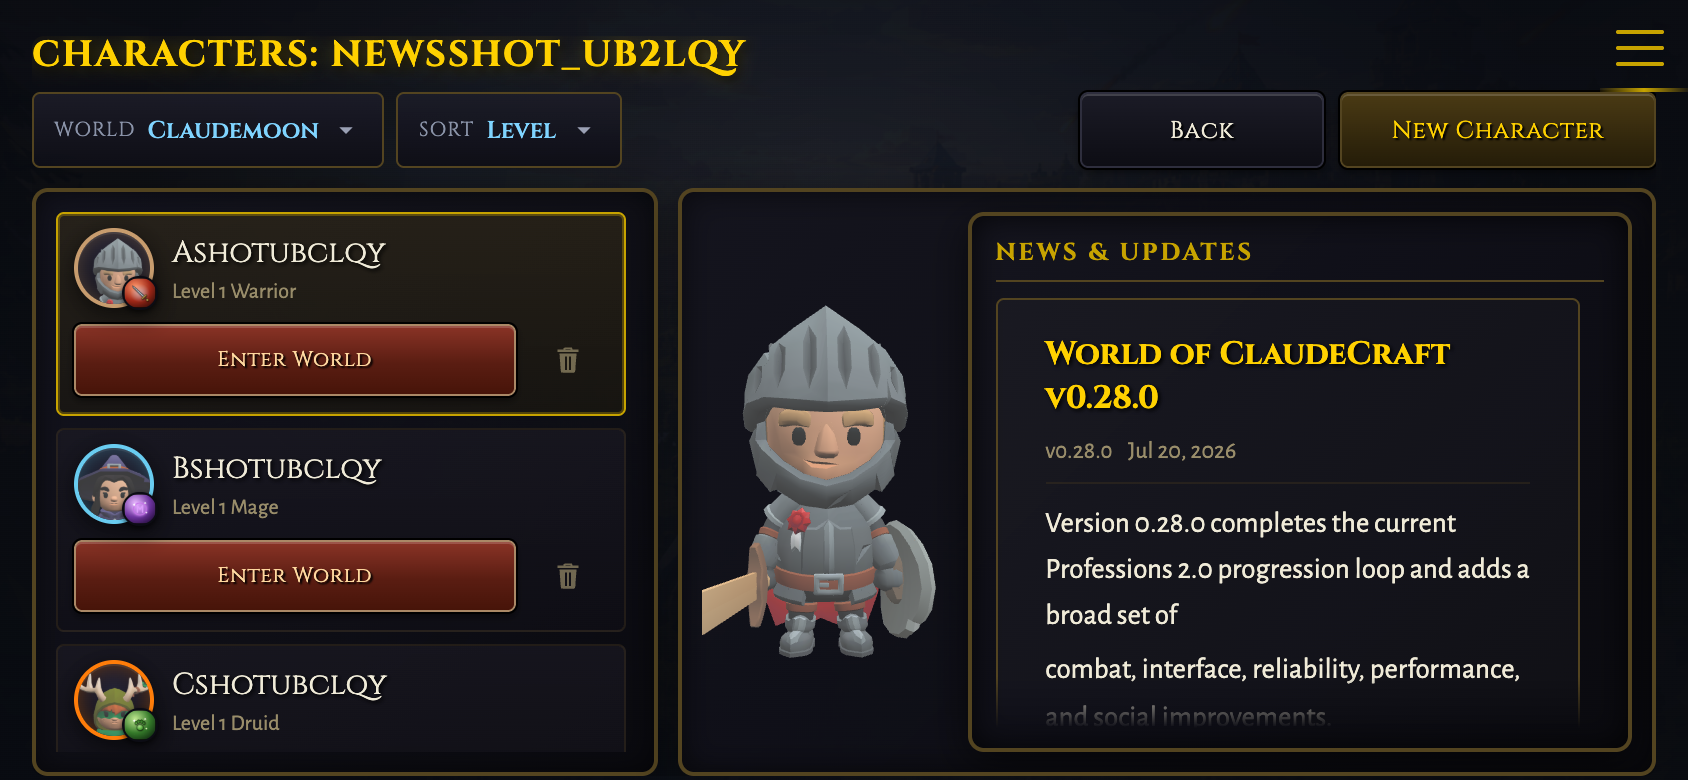
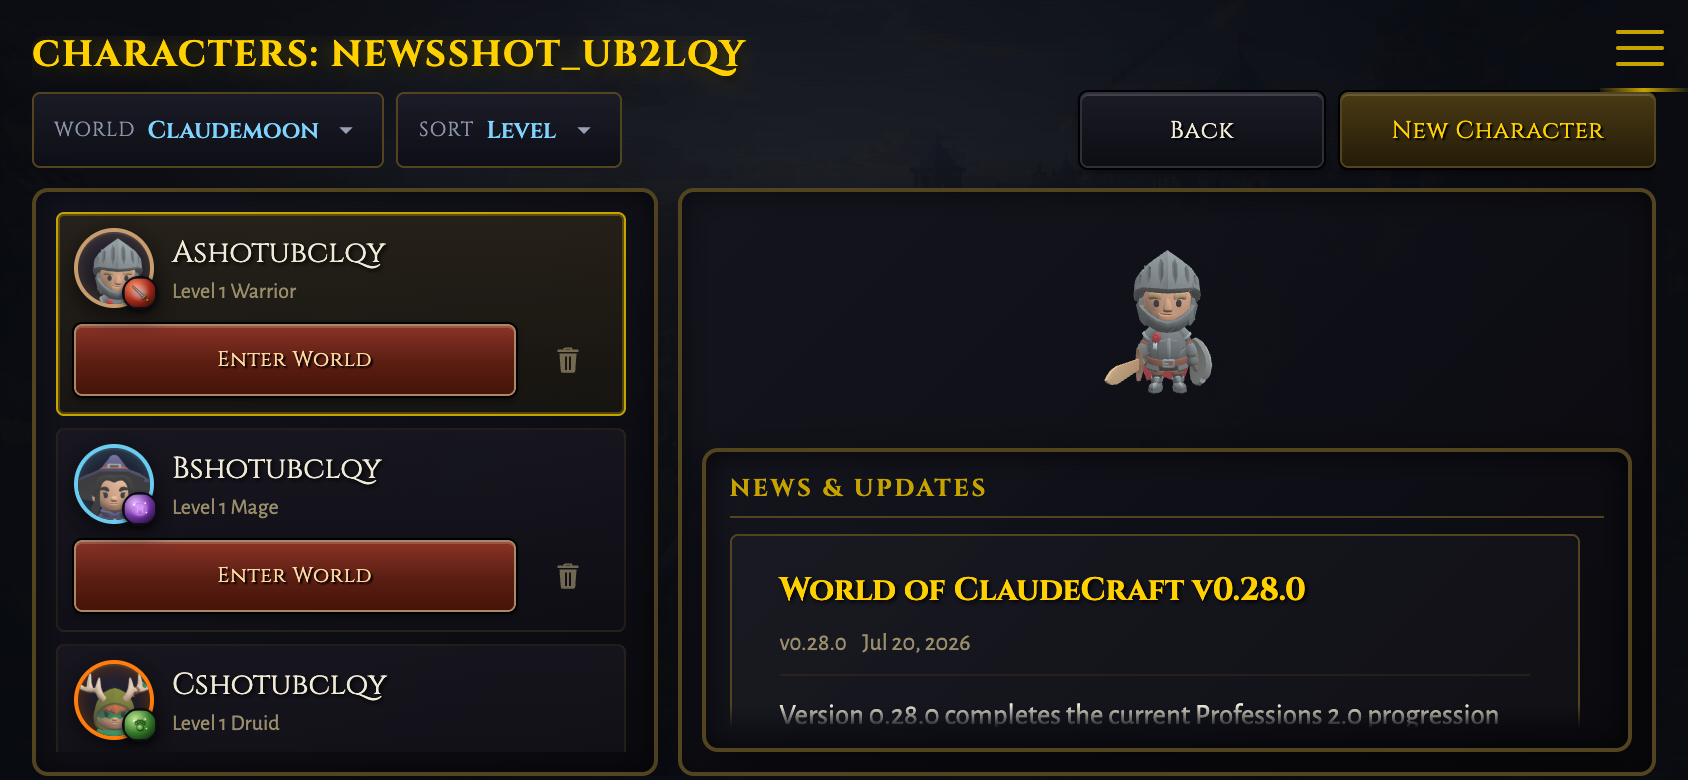
feat(ui): widen the charselect news panel and stack it below the roster on mobile
The desktop news dock now fills most of the left stage
(clamp(340px, 35vw, 600px) instead of borrowing the roster width), so
release notes wrap readably. On mobile landscape the feed stacks BELOW
the character preview in the detail column instead of sitting beside it;
portrait already stacked it under the roster. Screenshots refreshed.

diff --git a/tests/client_shell.test.ts b/tests/client_shell.test.ts
@@ -884,7 +884,7 @@ describe('client HTML shell', () => {
   it('keeps the desktop character roster readable inside a centered cinematic stage', () => {
     expect(shellCss).toContain('--cs-stage-gutter: max(26px, calc((100vw - 1780px) / 2));');
     expect(shellCss).toContain('--cs-roster-width: clamp(340px, 28vw, 440px);');
-    expect(shellCss).toContain('--cs-details-width: var(--cs-roster-width);');
+    expect(shellCss).toContain('--cs-details-width: clamp(340px, 35vw, 600px);');
     expect(shellCss).toContain(
       '@media (min-width: 861px) {\n    #offline-select.cs-wow,\n    body:not(.mobile-touch) :is(#charselect-panel, #charcreate-panel).cs-wow {',
     );
@@ -1431,7 +1431,7 @@ describe('client HTML shell', () => {
     // zero layout height, so only the panel's own top/bottom padding is left.
     expect(shellCss).toContain('height: min(560px, calc(var(--app-vh) - 20px));');
     expect(shellCss).toContain(
-      'body.mobile-touch #charselect-panel .cs-detail-col {\n      display: grid;\n      grid-template-columns: minmax(120px, 0.54fr) minmax(0, 1.46fr);',
+      'body.mobile-touch #charselect-panel .cs-detail-col {\n      display: flex;\n      flex-direction: column;',
     );
     expect(shellCss).toContain(
       'body.mobile-touch #charselect-panel #char-list {\n      overflow-y: auto;\n      scrollbar-gutter: stable;\n      scrollbar-width: auto;',

diff --git a/src/styles/shell.css b/src/styles/shell.css
@@ -2784,7 +2784,7 @@
     body:not(.mobile-touch) #charselect-panel.cs-wow {
       --cs-stage-gutter: max(26px, calc((100vw - 1780px) / 2));
       --cs-roster-width: clamp(340px, 28vw, 440px);
-      --cs-details-width: var(--cs-roster-width);
+      --cs-details-width: clamp(340px, 35vw, 600px);
       --cs-dock-bottom: clamp(18px, 6.5vh, 96px);
       display: flex;
       flex-direction: column;
@@ -6269,14 +6269,14 @@
       height: 40px;
     }
     body.mobile-touch #charselect-panel .cs-detail-col {
-      display: grid;
-      grid-template-columns: minmax(120px, 0.54fr) minmax(0, 1.46fr);
-      gap: 10px;
-      align-items: stretch;
+      display: flex;
+      flex-direction: column;
+      gap: 8px;
     }
     body.mobile-touch #charselect-panel .cs-detail-col .cs-preview {
+      flex: 0 0 38%;
       height: auto;
-      min-height: 0;
+      min-height: 110px;
       min-width: 0;
     }
     body.mobile-touch #charselect-panel #charselect-news {
